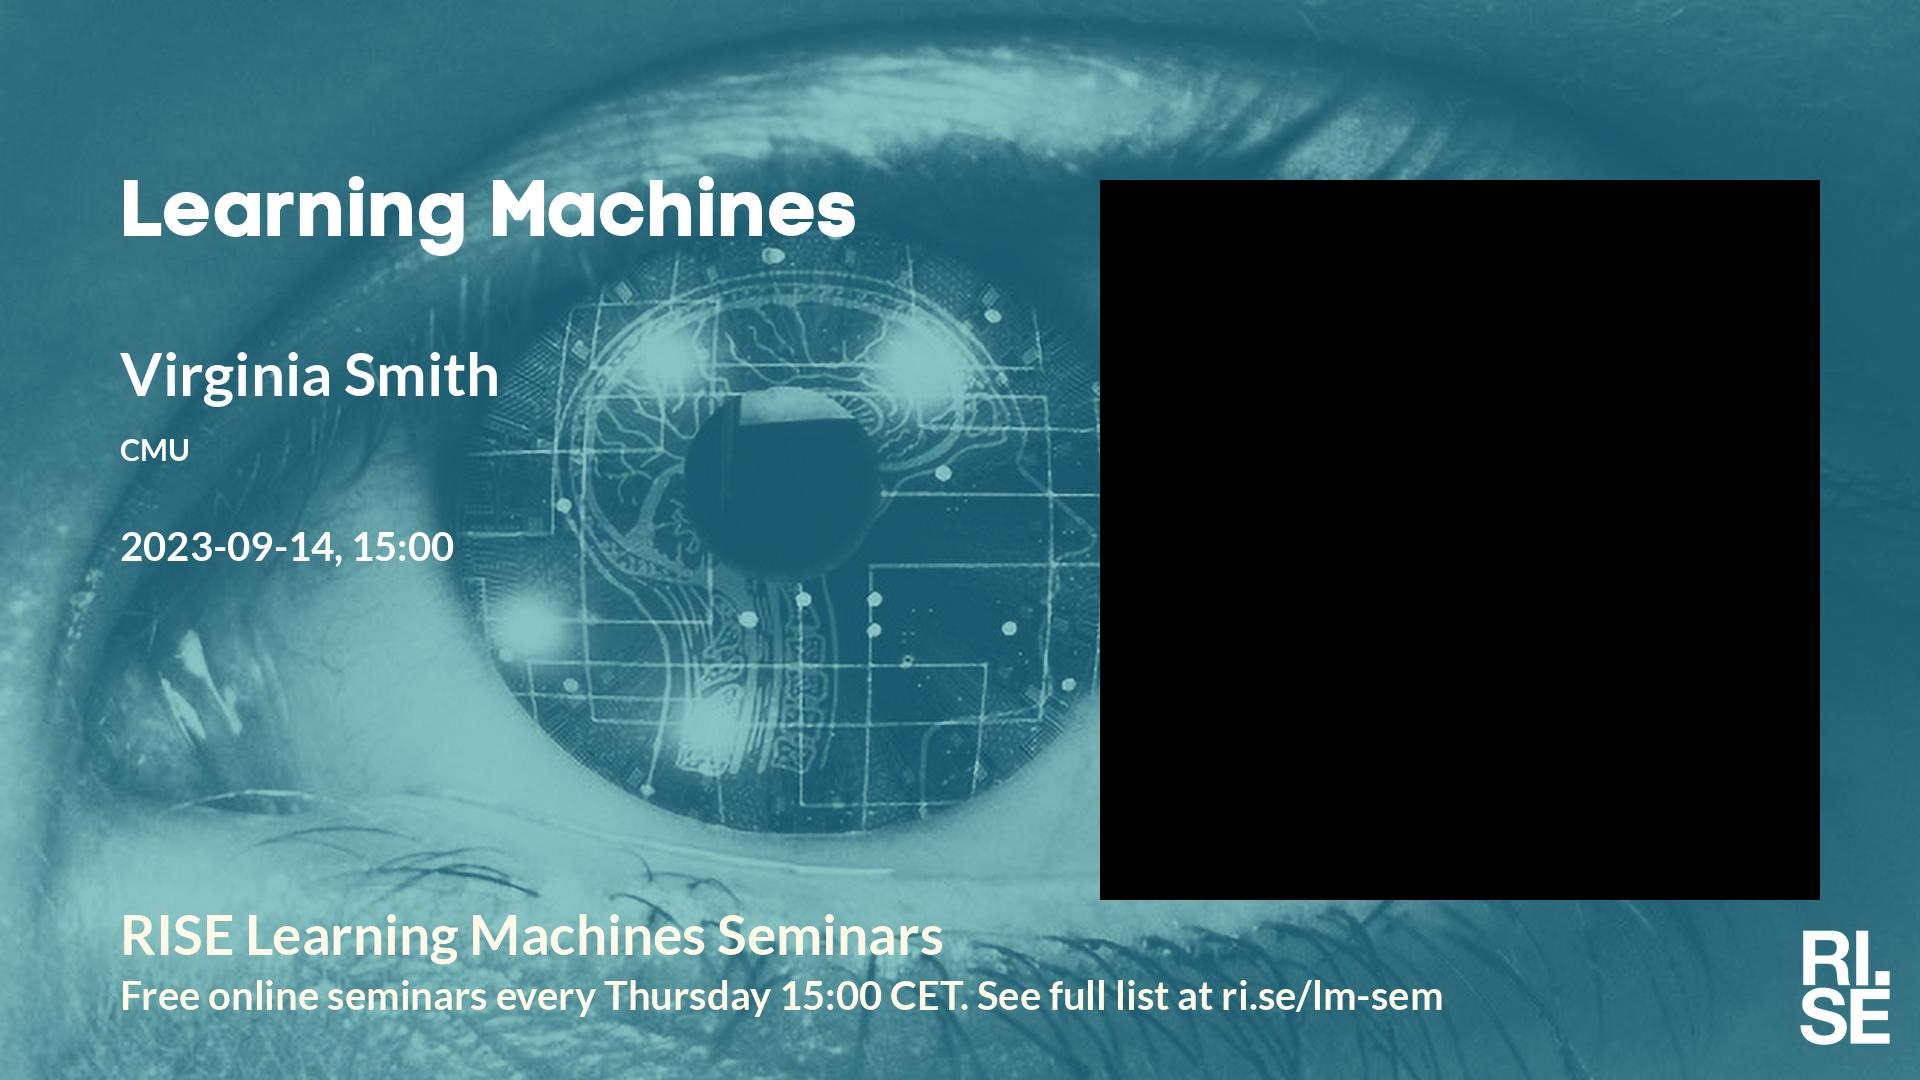
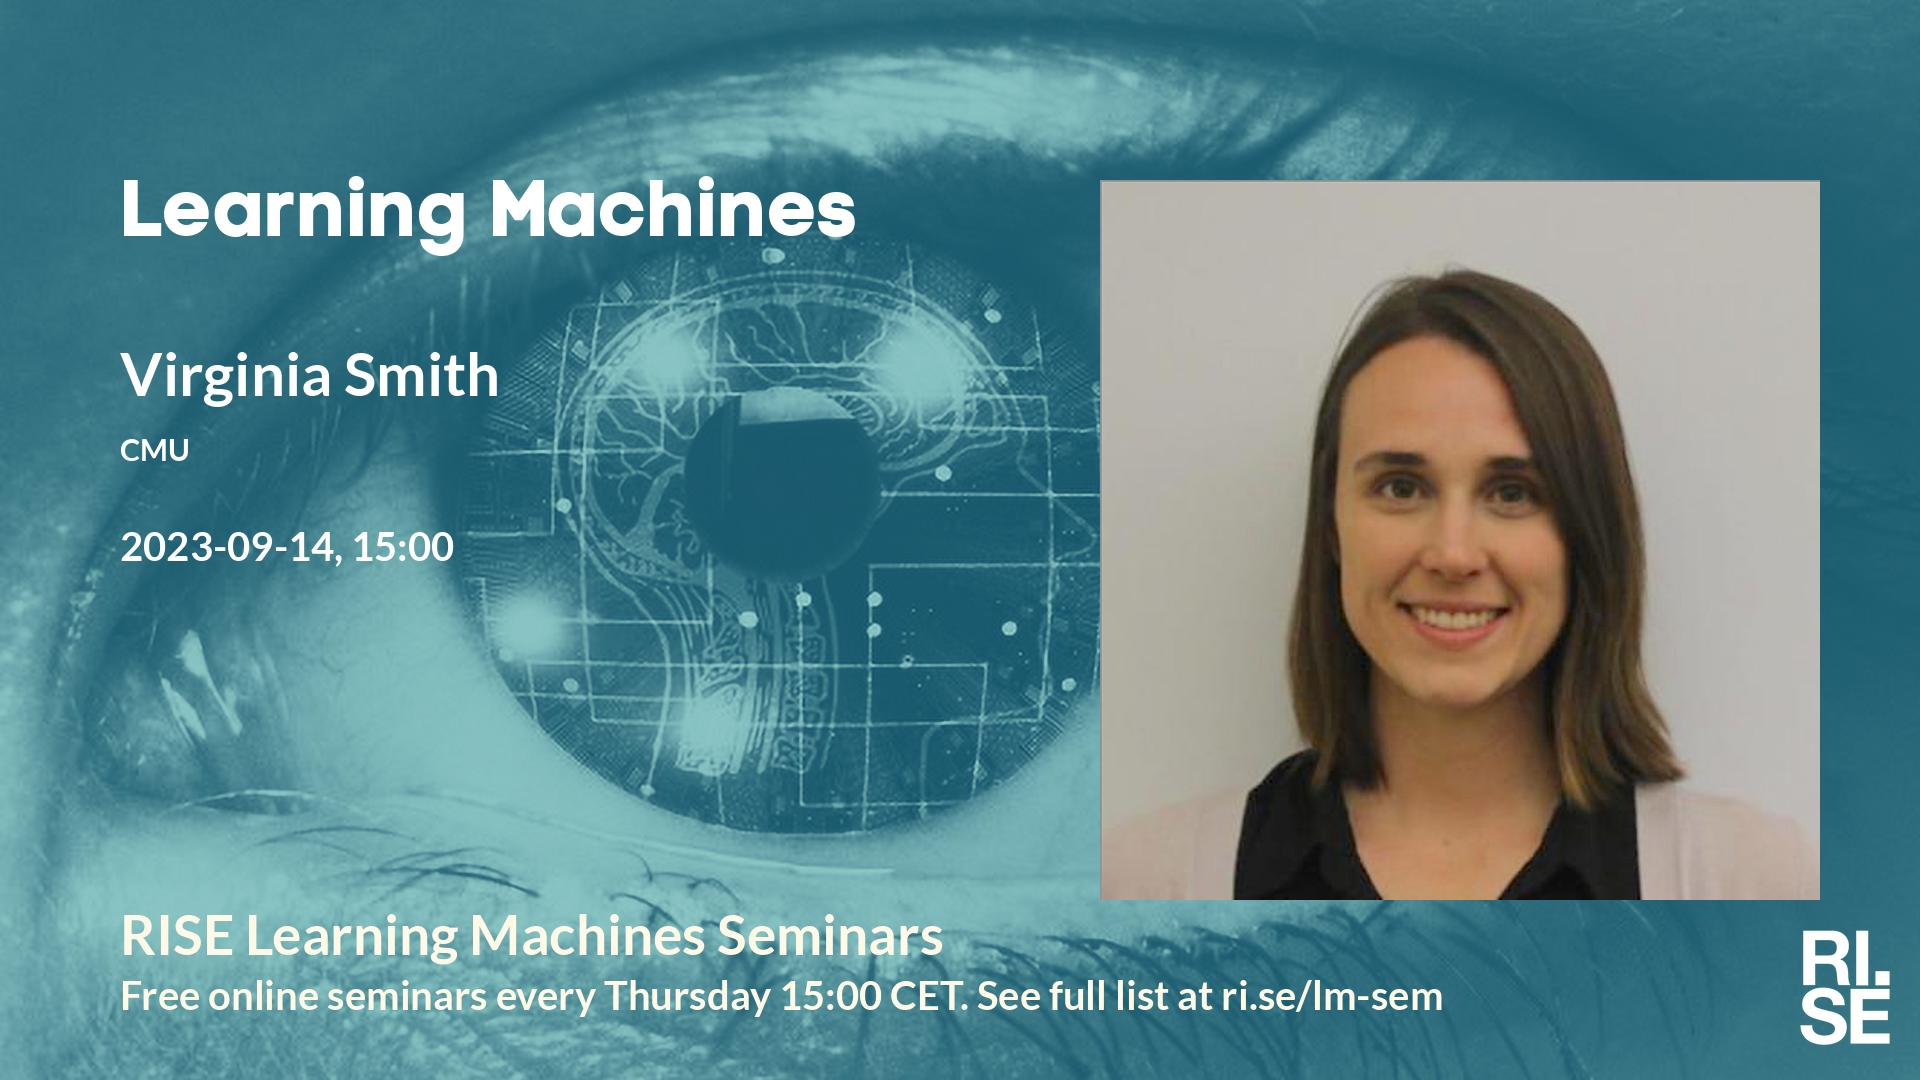
Updated plan on web site.

Changed region(s): [[0.5625, 0.1528, 0.9688, 0.8556]]

diff --git a/lm/index.md b/lm/index.md
@@ -11,7 +11,7 @@ table {border-collapse: collapse;}
 | ---- | ----------------------------------------- | ----- | ----- | ----- | ----- | -------------- |
 |  2023-08-31  |  [Zahra Taghiyar Renan, Halmstad University](2023-08-31.md)  |  [photo](photo-zahra-taghiyar-renan.jpg)  |  [social media ](social-media-zahra-taghiyar-renan.jpg)  |  [meeting backdrop ](meeting-backdrop-zahra-taghiyar-renan.jpg)  |  [youtube thumbnail ](youtube-thumbnail-zahra-taghiyar-renan.jpg)  |  STABP  |
 | <span style="color:grey"> 2023-09-07 </span> | <span style="color:grey"> Adam B. ? </span> | <span style="color:grey">  </span> | <span style="color:grey">  </span> | <span style="color:grey">  </span> | <span style="color:grey">  </span> | <span style="color:grey"> ?TAB~~P~~ </span> |
-|  2023-09-14  |  [Virginia Smith, CMU](2023-09-14.md)  |    |  [social media ](social-media-virginia-smith.jpg)  |  [meeting backdrop ](meeting-backdrop-virginia-smith.jpg)  |  [youtube thumbnail ](youtube-thumbnail-virginia-smith.jpg)  |  STAB~~P~~  |
+|  2023-09-14  |  [Virginia Smith, CMU](2023-09-14.md)  |  [photo](photo-virginia-smith.jpg)  |  [social media ](social-media-virginia-smith.jpg)  |  [meeting backdrop ](meeting-backdrop-virginia-smith.jpg)  |  [youtube thumbnail ](youtube-thumbnail-virginia-smith.jpg)  |  STABP  |
 |  2023-09-21  |  [Nico Lang, University of Copenhagen](2023-09-21.md)  |  [photo](photo-nico-lang.jpg)  |  [social media ](social-media-nico-lang.jpg)  |  [meeting backdrop ](meeting-backdrop-nico-lang.jpg)  |  [youtube thumbnail ](youtube-thumbnail-nico-lang.jpg)  |  STABP  |
 | <span style="color:grey"> 2023-09-28 </span> | <span style="color:grey"> Jaakko P. ? </span> | <span style="color:grey">  </span> | <span style="color:grey">  </span> | <span style="color:grey">  </span> | <span style="color:grey">  </span> | <span style="color:grey"> ?TAB~~P~~ </span> |
 |  2023-10-05  |  [Klaus-Robert Müller, TU Berlin](2023-10-05.md)  |  [photo](photo-klaus-robert-muller.jpg)  |  [social media ](social-media-klaus-robert-muller.jpg)  |  [meeting backdrop ](meeting-backdrop-klaus-robert-muller.jpg)  |  [youtube thumbnail ](youtube-thumbnail-klaus-robert-muller.jpg)  |  STABP  |
